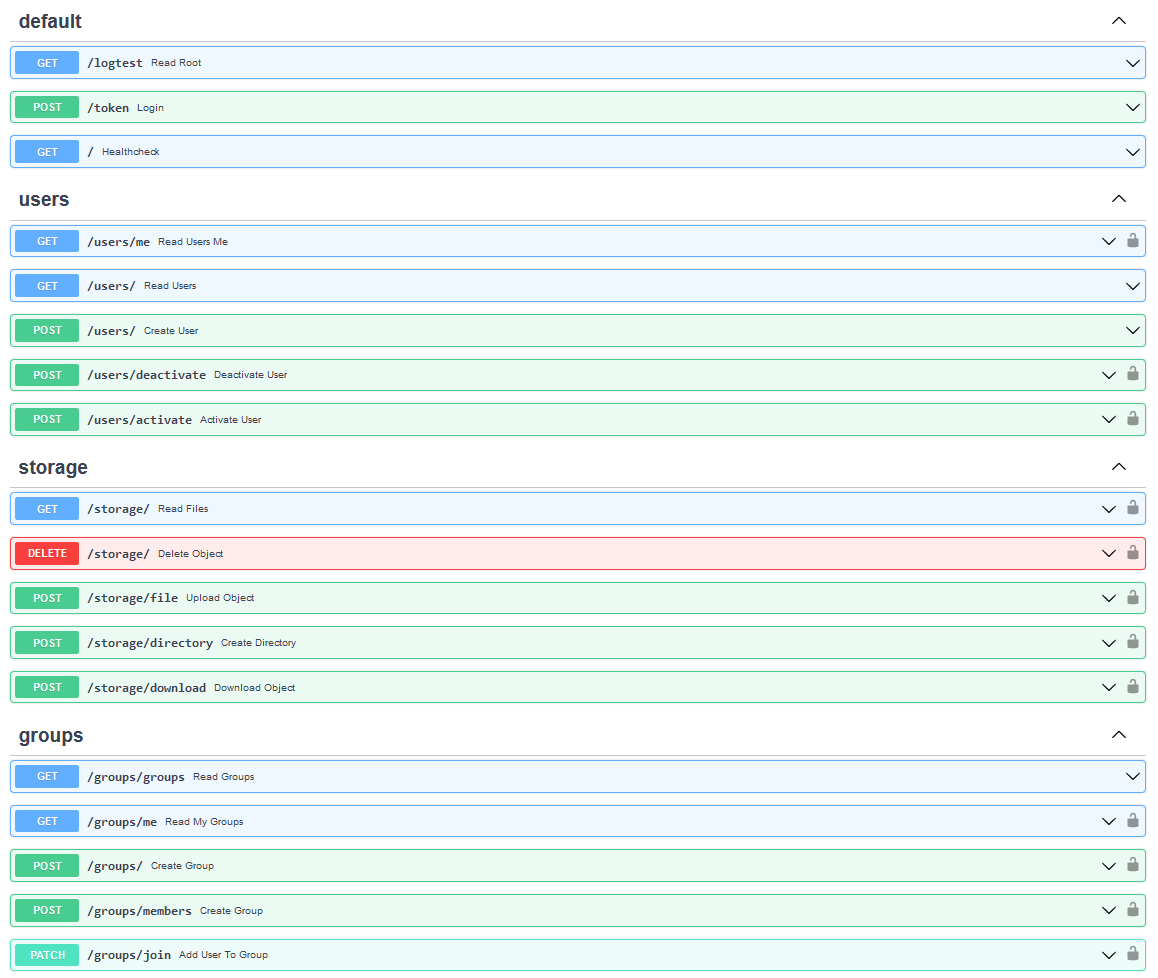
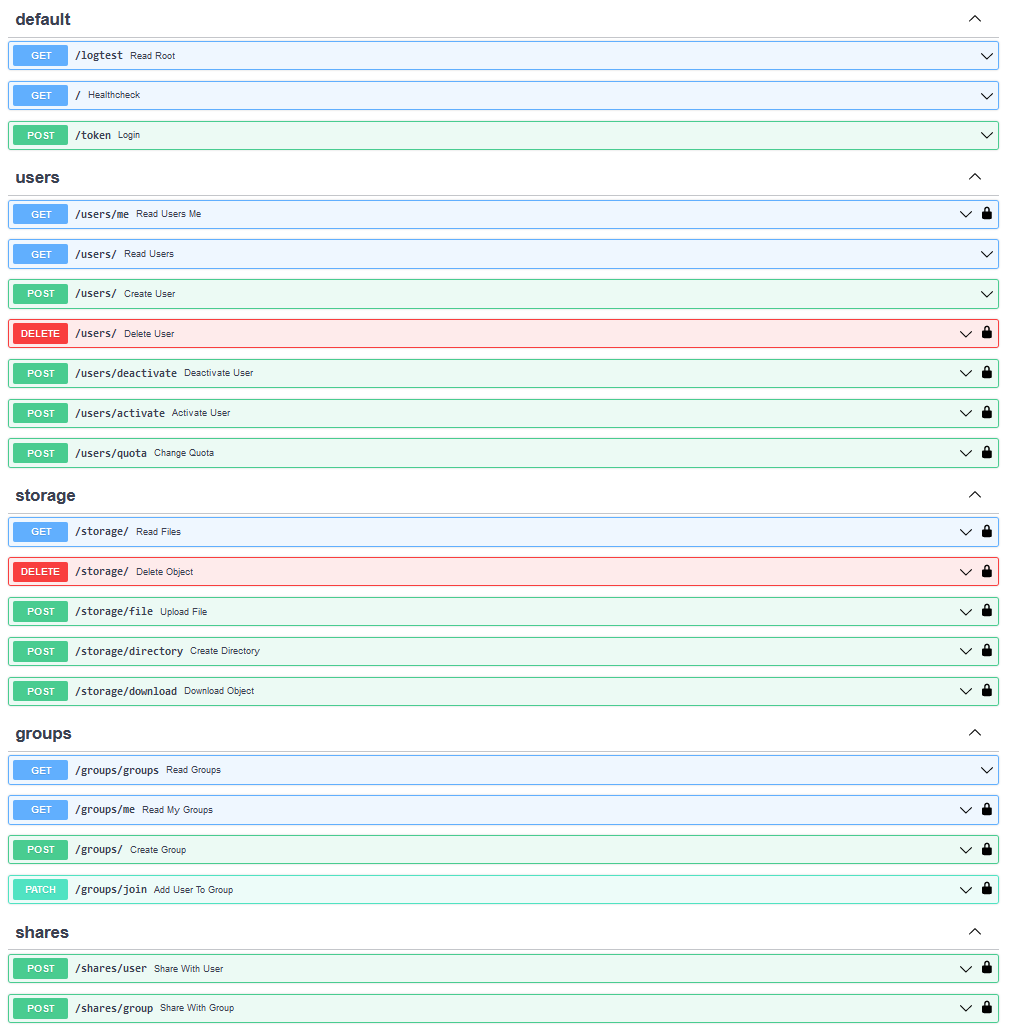
api cleanup

Changed region(s): [[0.0, 0.0, 1.0, 1.0]]

diff --git a/app/backend/app/main.py b/app/backend/app/main.py
@@ -51,6 +51,11 @@ async def read_root():
     return {"message": "Hello, World!"}
 
 
+@app.get("/")
+def healthcheck():
+    return "running"
+
+
 @app.exception_handler(PermissionError)
 async def permission_exception_handler(request: Request, exc: PermissionError):
     logger.warn(str(exc))
@@ -76,17 +81,15 @@ async def duplicate_exception_handler(request: Request, exc: crud.DuplicateError
         content={"message": f"Oopsie! {exc} did a happening."},
     )
     
-# @app.exception_handler(Exception)
-# async def general_exception_handler(request: Request, exc: Exception):
-#     if isinstance(exc, KeyboardInterrupt):
-#         raise exc
-#     logger.warn(str(exc))
-#     return JSONResponse(
-#         status_code=status.HTTP_400_BAD_REQUEST,
-#         content={"message": f"Oopsie! {exc} did a happening."},
-#     )
-
-
+@app.exception_handler(Exception)
+async def general_exception_handler(request: Request, exc: Exception):
+    if isinstance(exc, KeyboardInterrupt):
+        raise exc
+    logger.warn(str(exc))
+    return JSONResponse(
+        status_code=status.HTTP_400_BAD_REQUEST,
+        content={"message": f"Oopsie! {exc} did a happening."},
+    )
 
 
 async def get_current_user(
@@ -164,7 +167,7 @@ async def read_users_me(
     return current_user
 
 
-@router_user.get("/", response_model=list[schemas.User])
+@router_user.get("/", response_model=list[schemas.UserBase])
 def read_users(
     db: LocalSession
 ):
@@ -181,6 +184,15 @@ def create_user(
     if not db_user:
         logger.warn("Incorrect username or password Invalid action 400 BAD REQUEST")
         raise Exception("User already registered")
+    return db_user
+
+
+@router_user.delete("/", response_model=schemas.User)
+def delete_user(
+    current_user: CurrentUser,
+    db: LocalSession
+):
+    db_user = crud.delete_user(db, current_user.id)
     return db_user
 
 
@@ -201,9 +213,14 @@ def activate_user(
     return crud.change_active_status_for_user_by_username(db, username, True)
 
 
-@app.get("/")
-def healthcheck():
-    return "running"
+@router_user.post("/quota", response_model=schemas.User)
+def change_quota(
+    admin: Admin,
+    username: str,
+    new_quota: int,
+    db: LocalSession
+):    
+    return crud.change_user_quota(db, username, new_quota)
 
 
 @router_groups.get("/groups", response_model=list[schemas.Group])
@@ -230,41 +247,35 @@ def create_group(
     return crud.create_group(db, group_name)
 
 
-@router_groups.post("/members", response_model=list[schemas.User])
-def create_group(
-    current_user: CurrentUser,
+@router_groups.patch("/join", response_model=schemas.Group)
+def add_user_to_group(
+    admin: Admin,
     db: LocalSession,
-    group_name: str
+    group_name: str,
+    user_name: str
 ):
-    return crud.create_group(db, group_name)
+    group_id = crud.get_group_by_groupname(db, group_name).id
+    user_id = crud.get_user_by_username(db, user_name).id
+    return crud.add_user_to_group(db, group_id, user_id)
 
 
-@router_storage.get("/", response_model=schemas.FileOverview)
+@router_storage.get("/", response_model=schemas.StorageOverview)
 def read_files(
     current_user: CurrentUser,
     db: LocalSession
 ):
-    user: models.User = crud.get_user_by_username(db, current_user.username)
+    user = crud.get_user_by_username(db, current_user.username)
     return crud.get_all_objs_tree(db, user.id)
 
 
-class BytesResponse(Response):
-    def __init__(self, content: bytes, filename: str = None, status_code: int = 200):
-        media_type = "application/octet-stream"
-        headers = {}
-        if filename:
-            headers["Content-Disposition"] = f'attachment; filename="{filename}"'
-        super().__init__(content=content, media_type=media_type, headers=headers, status_code=status_code)
-
-
-@router_storage.post("/file", response_model=schemas.FileSummary)
+@router_storage.post("/file", response_model=schemas.FileCreate)
 async def upload_file(
     current_user: CurrentUser,
     db: LocalSession,
     file: UploadFile,
     path: str
 ):
-    user: models.User = crud.get_user_by_username(db, current_user.username)
+    user= crud.get_user_by_username(db, current_user.username)
 
     filename = file.filename
     content = await file.read()
@@ -280,7 +291,7 @@ async def upload_file(
     return res
 
 
-@router_storage.post("/directory", response_model=schemas.DirectorySummary)
+@router_storage.post("/directory", response_model=schemas.DirectoryBase)
 async def create_directory(
     current_user: CurrentUser,
     db: LocalSession,
@@ -291,7 +302,7 @@ async def create_directory(
     return crud.create_storage_object(db, user.id, directory.path, directory.name)
 
 
-@router_storage.delete("/", response_model=list[schemas.FileSummary | schemas.DirectorySummary])
+@router_storage.delete("/", response_model=list[schemas.OwnedFile | schemas.OwnedDirectory])
 async def delete_object(
     current_user: CurrentUser,
     db: LocalSession,
@@ -299,6 +310,15 @@ async def delete_object(
 ):
     user = crud.get_user_by_username(db, current_user.username)
     return crud.delete_object_by_path(db, user.id, path)
+
+
+class BytesResponse(Response):
+    def __init__(self, content: bytes, filename: str = None, status_code: int = 200):
+        media_type = "application/octet-stream"
+        headers = {}
+        if filename:
+            headers["Content-Disposition"] = f'attachment; filename="{filename}"'
+        super().__init__(content=content, media_type=media_type, headers=headers, status_code=status_code)
 
 
 @router_storage.post("/download", response_class=BytesResponse)
@@ -316,48 +336,35 @@ async def download_object(
     return BytesResponse(content=file.content, filename=file.name)
 
 
-@router_groups.patch("/join", response_model=schemas.Group)
-def add_user_to_group(
-    admin: Admin,
-    db: LocalSession,
-    group_name: str,
-    user_name: str
-):
-    group_id = crud.get_group_by_groupname(db, group_name).id
-    user_id = crud.get_user_by_username(db, user_name).id
-    return crud.add_user_to_group(db, group_id, user_id)
-
-
-@router_shared.post("/group")
-def add_user_to_group(
-    current_user: CurrentUser,
-    db: LocalSession,
-    group_name: str,
-    path: str,
-    permission: schemas.Permission
-):
-    user: models.User = crud.get_user_by_username(db, current_user.username)
-    group_id = crud.get_group_by_groupname(db, group_name).id
-    obj_id = crud.get_storageobject_id_by_path(db, user.id, path)
-    crud.share_storage_object_with_group(db, obj_id, group_id, permission)
-
-
 @router_shared.post("/user")
-def add_user_to_group(
+def share_with_user(
     current_user: CurrentUser,
     db: LocalSession,
     user_name: str,
     path: str,
     permission: schemas.Permission
 ):
-    from_user: models.User = crud.get_user_by_username(db, current_user.username)
-    to_user: models.User = crud.get_user_by_username(db, user_name)
+    from_user= crud.get_user_by_username(db, current_user.username)
+    to_user = crud.get_user_by_username(db, user_name)
     obj_id = crud.get_storageobject_id_by_path(db, from_user.id, path)
-    crud.share_storage_object_with_user(db, obj_id, from_user.id, to_user.id, permission)
+    crud.share_storage_object_with_user(db, obj_id, from_user.id, to_user.id, permission.value)
+    
+    
+@router_shared.post("/group")
+def share_with_group(
+    current_user: CurrentUser,
+    db: LocalSession,
+    group_name: str,
+    path: str,
+    permission: schemas.Permission
+):
+    user = crud.get_user_by_username(db, current_user.username)
+    group = crud.get_group_by_groupname(db, group_name)
+    obj = crud.get_storageobject_id_by_path(db, user.id, path)
+    crud.share_storage_object_with_group(db, obj.id, group.id, permission.value)
 
 
 app.include_router(router_user)
 app.include_router(router_storage)
 app.include_router(router_groups)
 app.include_router(router_shared)
-
